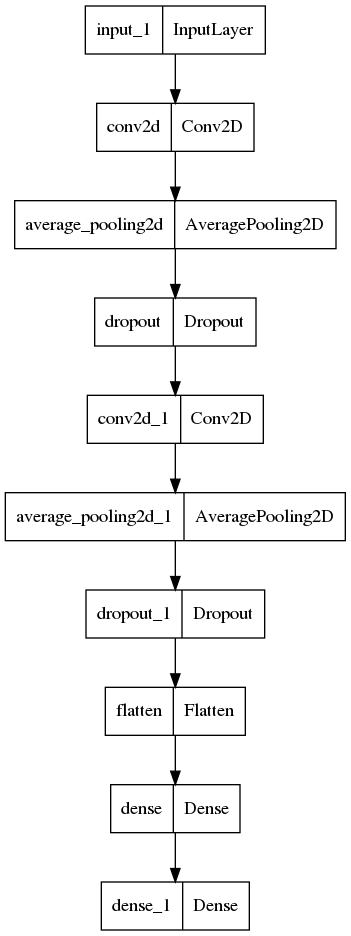
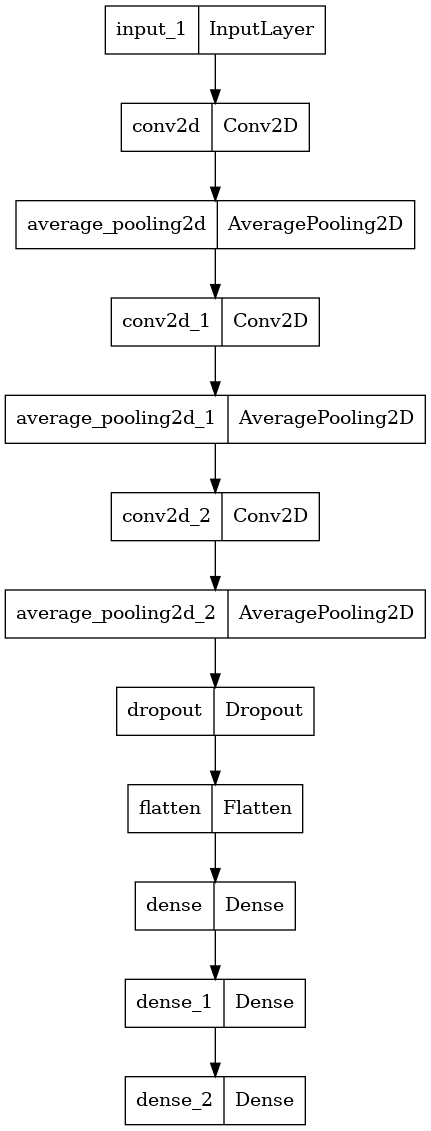
Finished Testing

Changed region(s): [[0.0, 0.0, 0.9972, 1.0]]

diff --git a/cnn1.py b/cnn1.py
@@ -66,18 +66,18 @@ def load_dataset(filename, train=False):
 
 def build_cnn_model():
     model = tf.keras.Sequential([
-        layers.Conv2D(32, kernel_size=(5, 5), input_shape=(28, 28, 1), padding='same', activation='relu'),
+        layers.Conv2D(10, kernel_size=(5, 5), input_shape=(28, 28, 1), padding='same', activation='relu'),
         layers.MaxPool2D(),
-        layers.Dropout(0.25),
-        layers.Conv2D(64, kernel_size=(5, 5), padding='same', activation='relu'),
+        # layers.Dropout(0.25),
+        layers.Conv2D(16, kernel_size=(5, 5), padding='same', activation='relu'),
         layers.MaxPool2D(),
-        layers.Dropout(0.25),
-        layers.Conv2D(64, kernel_size=(5, 5), padding='same', activation='relu'),
+        # layers.Dropout(0.25),
+        layers.Conv2D(28, kernel_size=(5, 5), padding='same', activation='relu'),
         layers.MaxPool2D(),
         layers.Dropout(0.25),
         layers.Flatten(),
-        layers.Dense(512, activation='relu'),
-        layers.Dense(512, activation='relu'),
+        layers.Dense(128, activation='relu'),
+        layers.Dense(64, activation='relu'),
         layers.Dense(10, activation='softmax')
     ])
 
@@ -112,7 +112,7 @@ def build_parallel_cnn():
     d = layers.Flatten()(cat)
 
     # Dense Network
-    d = layers.Dense(1028, activation='relu')(d)
+    d = layers.Dense(128, activation='relu')(d)
     d = layers.Dropout(0.5)(d)
 
     # Output
@@ -139,16 +139,20 @@ def avg_pool_cnn():
     inputs = layers.Input(shape=(28, 28, 1))
 
     # Convolutions
-    x = layers.Conv2D(16, kernel_size=(3, 3), activation='relu')(inputs)
+    x = layers.Conv2D(10, kernel_size=(3, 3), padding='same', activation='relu')(inputs)
     x = layers.AveragePooling2D()(x)
-    x = layers.Dropout(0.25)(x)
-    x = layers.Conv2D(16, kernel_size=(3, 3), activation='relu')(x)
+    # x = layers.Dropout(0.25)(x)
+    x = layers.Conv2D(16, kernel_size=(3, 3), padding='same', activation='relu')(x)
+    x = layers.AveragePooling2D()(x)
+    # x = layers.Dropout(0.25)(x)
+    x = layers.Conv2D(28, kernel_size=(3, 3), padding='same', activation='relu')(x)
     x = layers.AveragePooling2D()(x)
     x = layers.Dropout(0.25)(x)
 
     # Flatten and Dense Layers
     flat = layers.Flatten()(x)
-    d = layers.Dense(256, activation='relu')(flat)
+    d = layers.Dense(128, activation='relu')(flat)
+    d = layers.Dense(64, activation='relu')(d)
 
     # Output Layers
     output = layers.Dense(10, activation='softmax')(d)
@@ -169,7 +173,7 @@ def avg_pool_cnn():
 
 
 if __name__ == '__main__':
-    train_data = load_dataset('fashion-mnist_train.csv', True)
+    train_data = load_dataset('fashion-mnist_train.csv', False)
     test_data = load_dataset('fashion-mnist_test.csv')
 
     # model = build_cnn_model()

diff --git a/configs.py b/configs.py
@@ -1,1 +1,1 @@
-DATA_DIR = '/home/bigdata/NFSDatasets/fasion-mnist/csv_files/'
+DATA_DIR = '/home/dominik/cifsmnt/fasion-mnist/csv_files/'

diff --git a/README.md b/README.md
@@ -1,2 +1,3 @@
 # fmnist_cnn
-Just myself practicing with Fashion MNIST using a CNN
+Just myself practicing with Fashion MNIST using different CNN architectures in Tensorflow.
+
